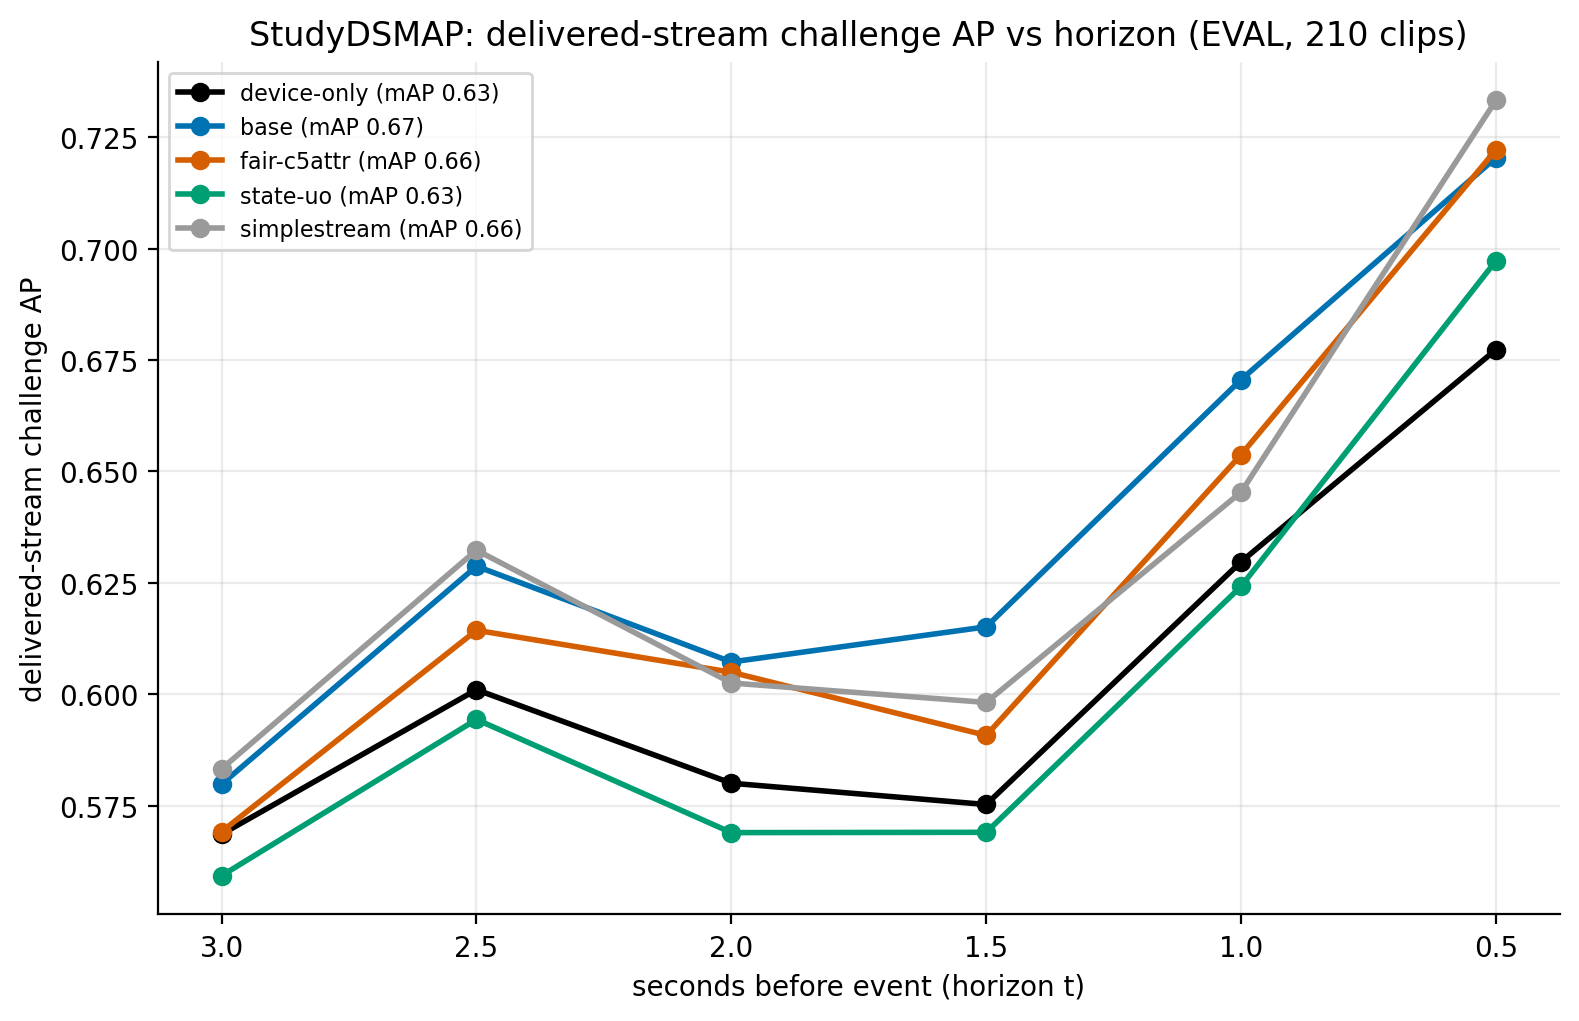
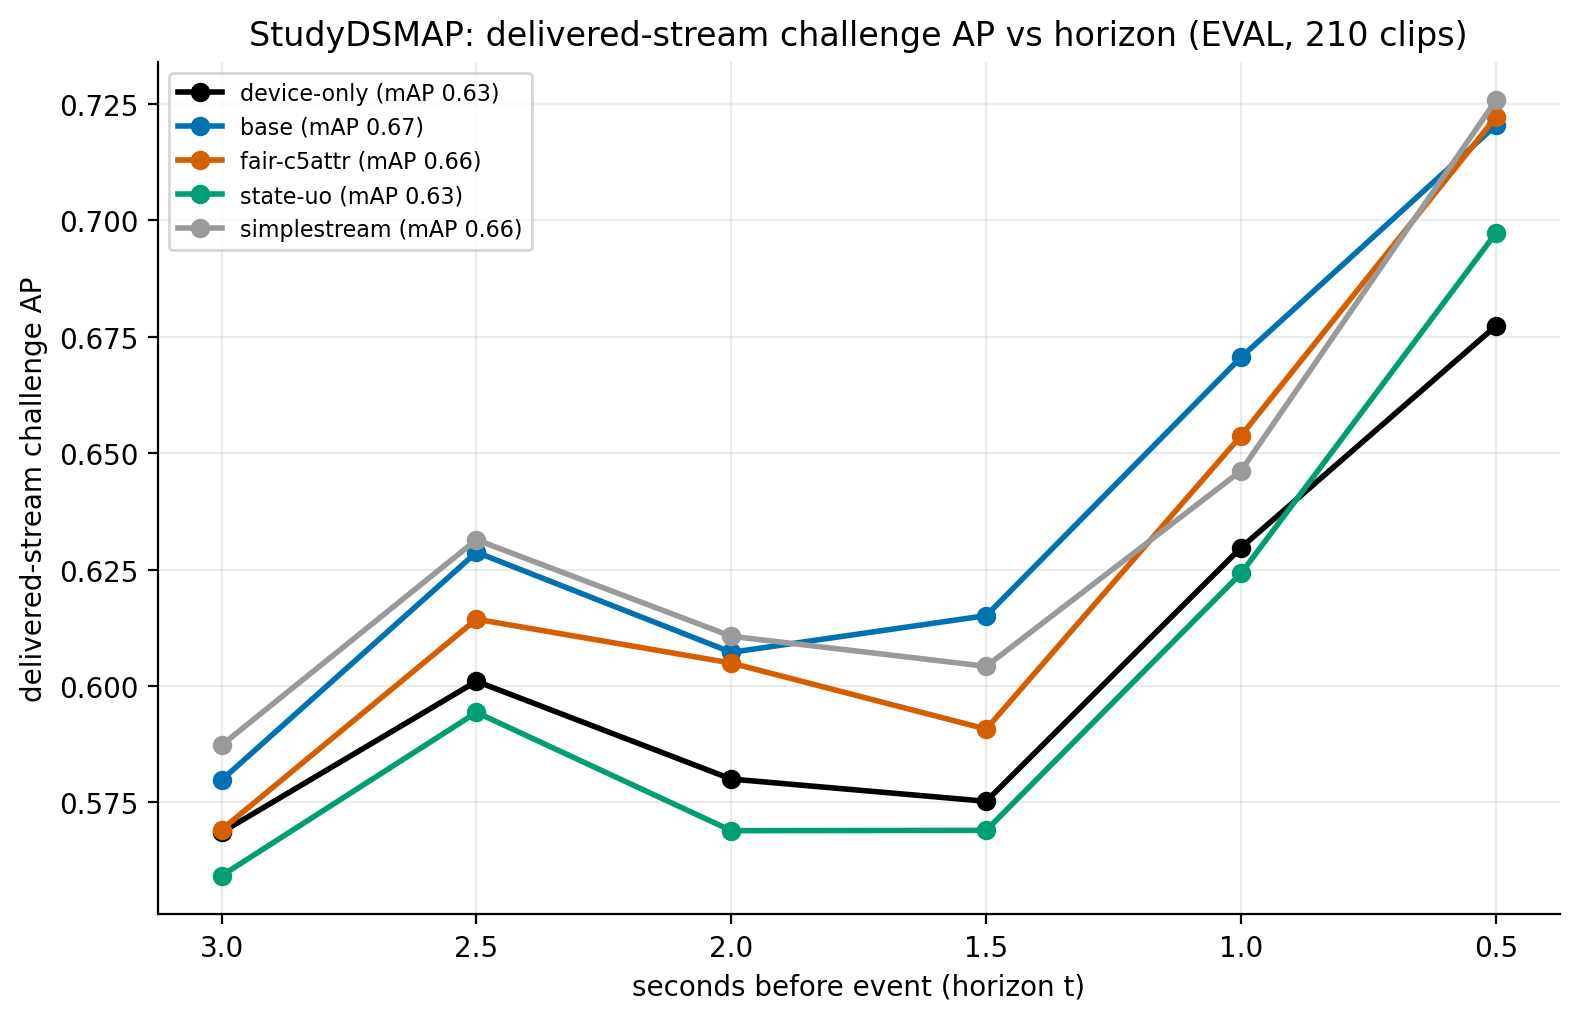
D209

diff --git a/reports/table1.md b/reports/table1.md
@@ -16,7 +16,7 @@ Columns: robot correct-by-deadline (correct by 3 s, cloud if on time else device
 | state-shares | 0.427 | 0.427 | 0.600 | 0.557 | 0.659 | 0.482 | 0.972 | 0.667 | 0.901 |
 | base | 0.359 | 0.359 | 0.600 | 0.540 | 0.669 | 0.249 | 0.968 | 0.464 | 0.627 |
 | rules | 0.341 | 0.341 | 0.578 | 0.518 | 0.627 | 0.266 | 0.719 | 0.092 | 0.136 |
-| simplestream | 0.224 | 0.224 | 0.600 | 0.504 | 0.659 | 0.996 | 0.997 | 0.805 | 0.983 |
+| simplestream | 0.231 | 0.231 | 0.600 | 0.507 | 0.659 | 0.996 | 0.998 | 0.816 | 0.988 |
 | streamscout | 0.222 | 0.222 | 0.600 | 0.504 | 0.651 | 0.955 | 0.999 | 0.675 | 0.953 |
 | eco-llm | 0.281 | 0.281 | 0.559 | 0.489 | 0.662 | 0.282 | 0.380 | 0.289 | 0.372 |
 | llf | 0.277 | 0.277 | 0.561 | 0.489 | 0.639 | 0.051 | 0.431 | 0.543 | 0.742 |
@@ -51,7 +51,7 @@ Diff = arm minus comparator, pooled over seeds 4-7, clusters resampled by questi
 | state-shares | -0.021 [-0.033, -0.010] | +0.090 [+0.052, +0.131] | +0.171 [+0.134, +0.212] | +0.063 [+0.010, +0.113] |
 | base | -0.039 [-0.053, -0.025] | +0.073 [+0.034, +0.112] | +0.103 [+0.076, +0.132] | +0.063 [+0.009, +0.115] |
 | rules | -0.060 [-0.078, -0.042] | +0.052 [+0.020, +0.085] | +0.085 [+0.056, +0.115] | +0.041 [-0.004, +0.082] |
-| simplestream | -0.074 [-0.089, -0.059] | +0.038 [-0.004, +0.082] | -0.037 [-0.085, +0.008] | +0.063 [+0.007, +0.116] |
+| simplestream | -0.072 [-0.088, -0.057] | +0.040 [-0.001, +0.084] | -0.029 [-0.076, +0.019] | +0.063 [+0.007, +0.116] |
 | streamscout | -0.075 [-0.090, -0.059] | +0.037 [-0.005, +0.081] | -0.039 [-0.087, +0.006] | +0.063 [+0.007, +0.116] |
 | eco-llm | -0.089 [-0.118, -0.060] | +0.022 [+0.004, +0.040] | +0.025 [+0.002, +0.048] | +0.022 [-0.002, +0.045] |
 | llf | -0.089 [-0.115, -0.063] | +0.022 [-0.001, +0.046] | +0.021 [+0.008, +0.035] | +0.023 [-0.007, +0.053] |

diff --git a/reports/study_dsmap.md b/reports/study_dsmap.md
@@ -14,7 +14,7 @@ Platt maps (calibrated log-odds = a*score + b, fit on SH-EP DEV EP-G, n=1170): d
 | mooncake | 0.660 | 0.664 [0.592, 0.735] | +0.009 [-0.048, +0.062] | +0.037 [-0.004, +0.071] |
 | b7-edf-feasibility | 0.660 | 0.662 [0.592, 0.733] | +0.006 [-0.049, +0.060] | +0.035 [-0.006, +0.067] |
 | eco-llm | 0.659 | 0.662 [0.591, 0.732] | +0.006 [-0.051, +0.062] | +0.034 [-0.007, +0.067] |
-| simplestream | 0.657 | 0.659 [0.588, 0.735] | +0.003 [-0.048, +0.053] | +0.032 [-0.059, +0.114] |
+| simplestream | 0.657 | 0.659 [0.586, 0.735] | +0.003 [-0.048, +0.052] | +0.031 [-0.061, +0.114] |
 | state-shares | 0.661 | 0.659 [0.590, 0.735] | +0.003 [-0.045, +0.048] | +0.031 [-0.053, +0.108] |
 | fair-c5attr | 0.662 | 0.656 [0.584, 0.736] | +0.000 [+0.000, +0.000] | +0.028 [-0.046, +0.094] |
 | streamscout | 0.647 | 0.651 [0.578, 0.728] | -0.005 [-0.056, +0.041] | +0.023 [-0.066, +0.104] |
